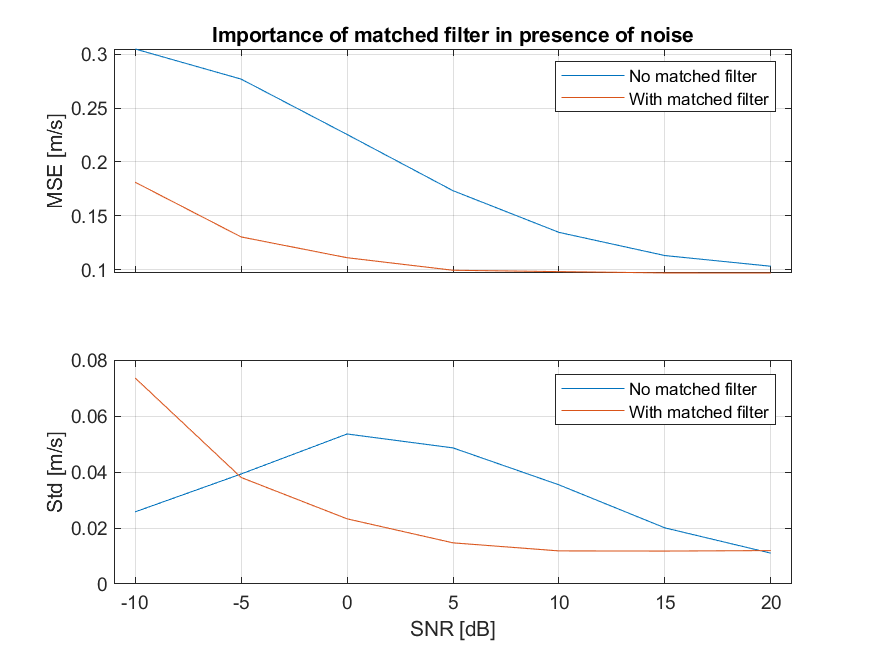
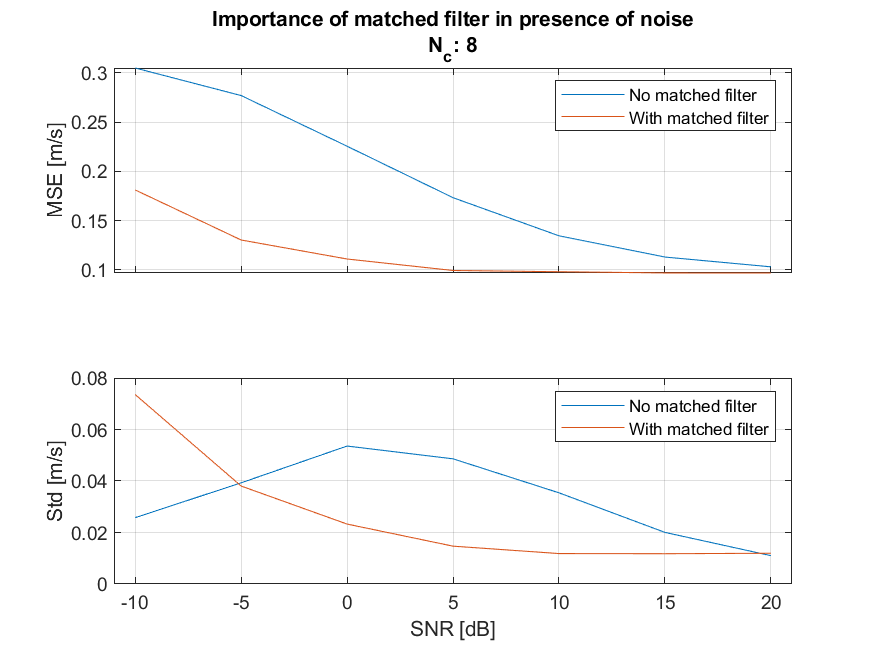
correct title in plot

diff --git a/autocorr_validate.m b/autocorr_validate.m
@@ -1,8 +1,4 @@
 clear; close all; clc;
-%%
-all_biases = {};
-all_stdevs = {};
-%%
 
 global f0 M fs n_fft vessel_angle vessel_diameter f_prf
 global T_prf vz c seed winsize_
@@ -18,7 +14,6 @@ f_prf = 5e3;                % pulse repetition frequency [hz]
 T_prf = 1 / f_prf;          % pulse repetition time [s]
 vz = 0.15;                  % simulated velocity [m/s]
 c = 1500;                   % speed of sound [m/s]
-err_std = 0.5;              % standard dev of noise
 seed = 0;                   % random seed
 
 %% Evaluate windowsize on-off
@@ -129,10 +124,10 @@ display_bias_plot(all_biases, all_stdevs, {'Impact of echo cancelling', 'Winsize
 
 %% SNR estimate
 
-add_noise             = 0;
-add_stationary_signal = 0;
-apply_ec              = 0;
-overwrite_winsize     = 0;
+add_noise             = false;
+add_stationary_signal = false;
+apply_ec              = false;
+overwrite_winsize     = false;
 n_emissions           = 8;
 
 load('pulse.mat');
@@ -182,7 +177,7 @@ for i = 1:size(all_biases,2)
     grid on; hold on;
 end
 set(gca, 'XTickLabel', [])
-title('Importance of matched filter in presence of noise');
+title({'Importance of matched filter in presence of noise', 'N_c: 8'});
 legend({'No matched filter', 'With matched filter'});
 
 ax2=subplot(2,1,2);

diff --git a/tmp.m b/tmp.m
@@ -82,7 +82,6 @@ plot(v_est(200:end-200));
 
 function v = acorr_estimate(rf, winsize, c, f_prf, f0, rad_angle)
     rf_iq = hilbert(rf);
-    N_i = size(rf_iq, 1);
     N_rf = size(rf_iq, 2);
     
     factor = - (c * f_prf) / (4 * pi * f0);

diff --git a/main.m b/main.m
@@ -1,1 +1,2 @@
 clear; close all; clc;
+
